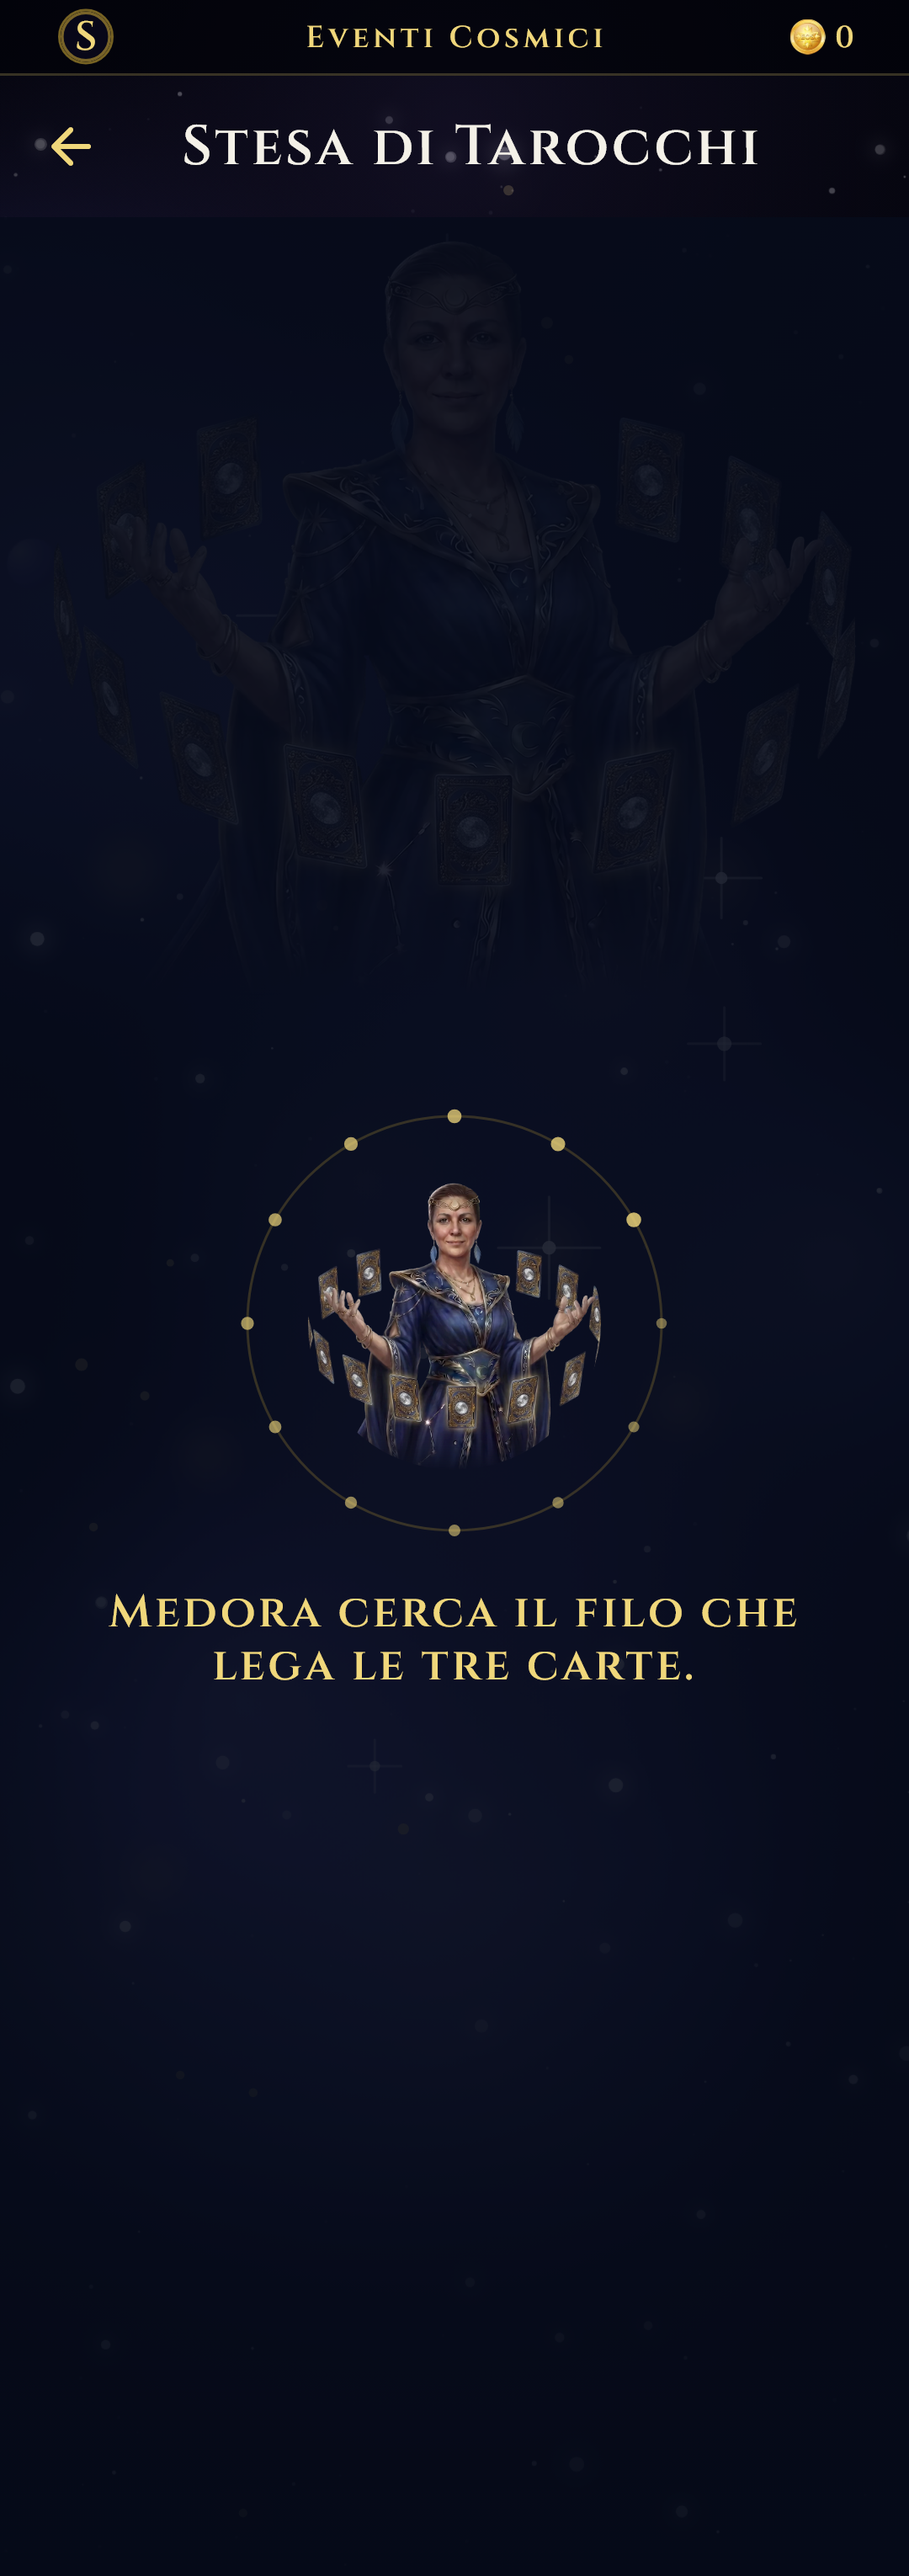
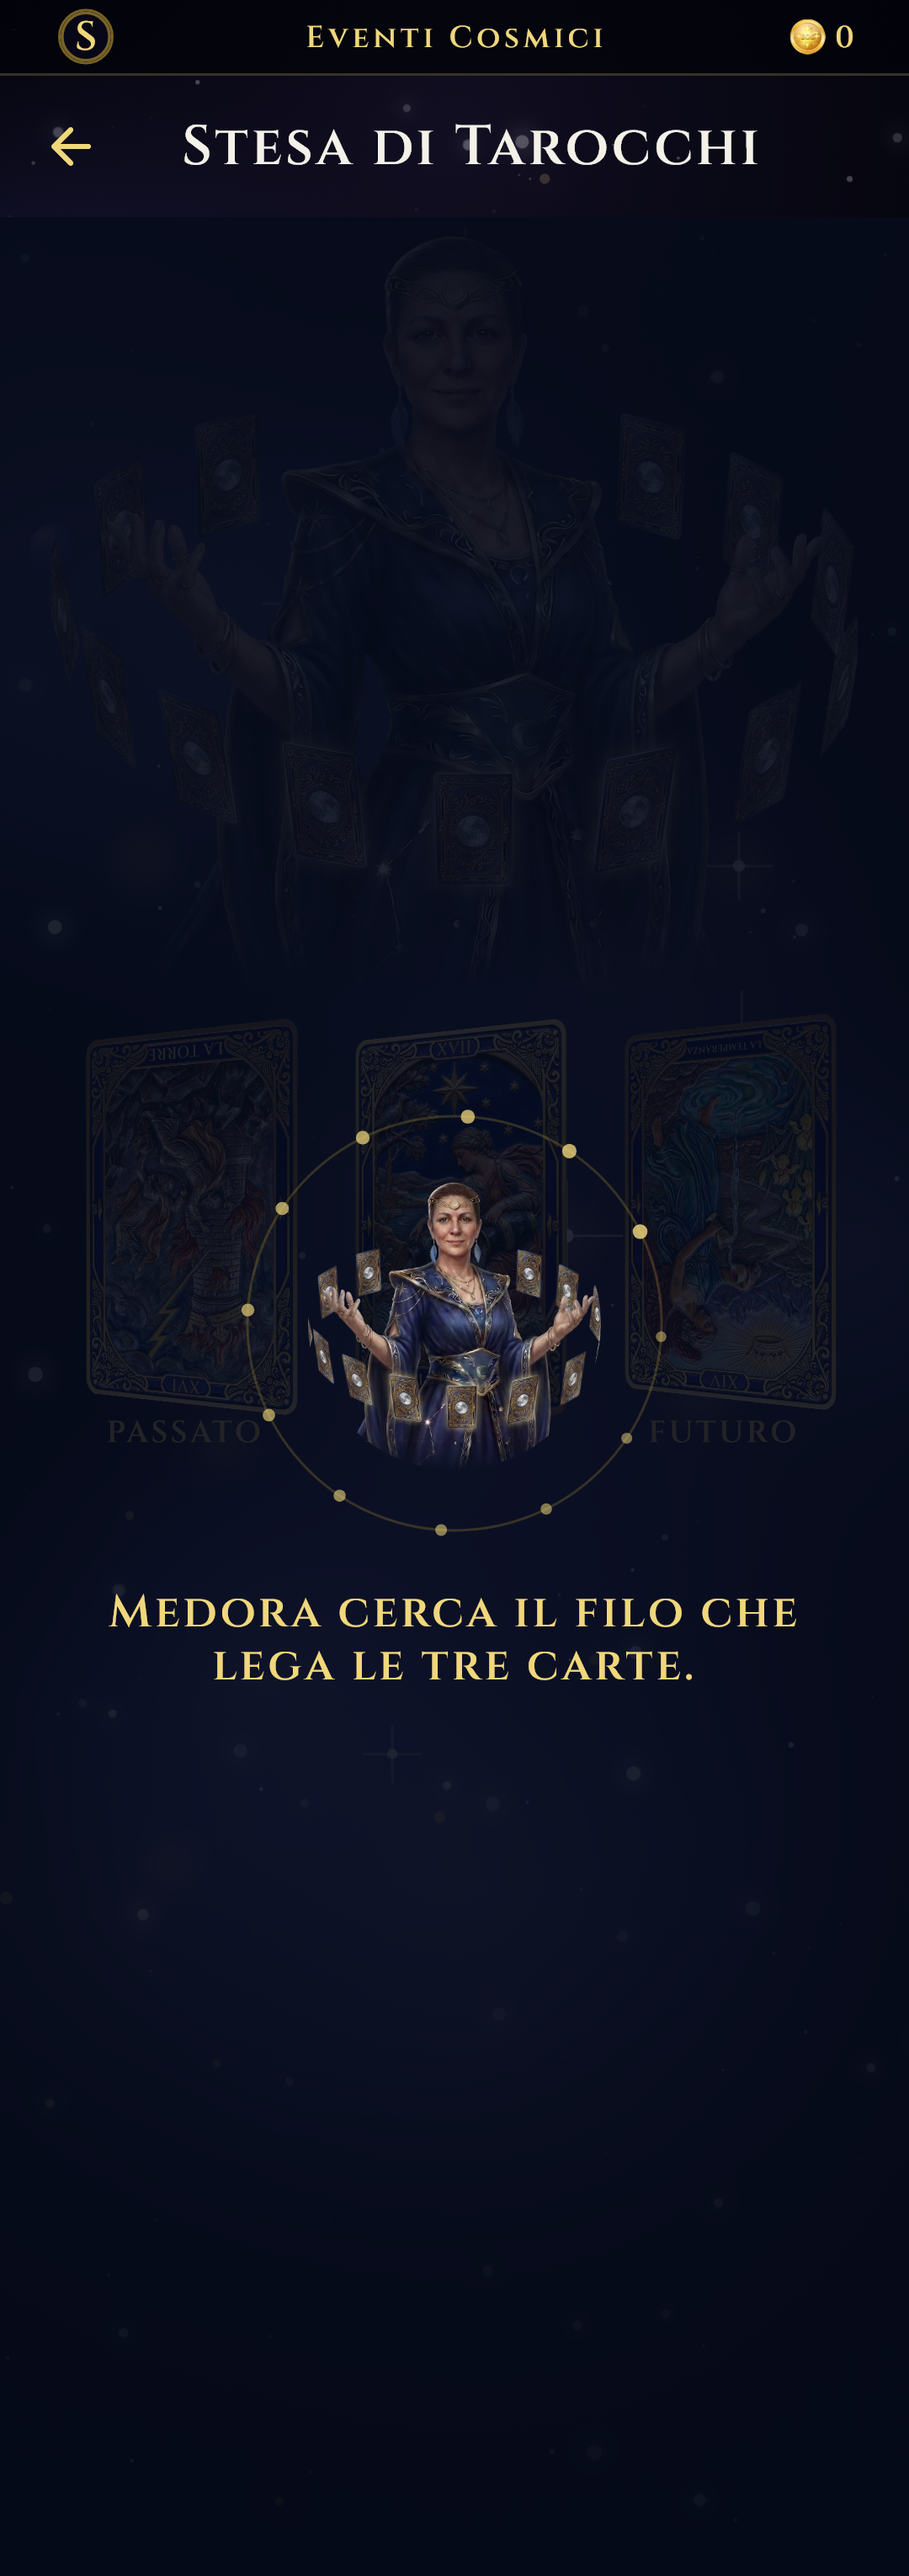
BZ.08: la carta chiave si dice a parole, non con una cornice
Parole del fondatore: "la Carta chiave evidenziata da cornice azzurra
FA ANCORA SCHIFO: va bene la carta ingrandita, ma sopra bisogna
scrivergli 'Carta Chiave' ed e' meglio diminuire la grandezza delle
altre 2 carte".

La cornice azzurra non c'e' piu': era il terzo tentativo di dire con un
colore cio' che adesso dicono due parole. Sopra la carta chiave c'e'
scritto Carta Chiave, e le altre due scendono a 0,86.

Le tre misure, sui pixel dipinti e non sui riquadri di layout:
- la carta chiave e' alta 162,8 punti contro 127,3, cioe' il 27,9 per
  cento in piu' (era il 10,0);
- l'azzurro sopra la chiave 127 pixel, sopra le altre due zero;
- le parole finiscono a 437 e la carta comincia a 442,8, cioe' stanno
  sopra e non addosso. Con venti punti di intestazione la carta le
  copriva di nove.

Le tre carte restano dentro lo schermo anche a 320 di larghezza.

I due rossi: rimesse le vicine a 1,0 lo scarto torna al 10,0 per cento
e la guardia cade; tolte le parole cadono tre guardie, con zero pixel
di azzurro sopra la chiave.

diff --git a/test/la_chiave_e_il_consiglio_si_vedono_test.dart b/test/la_chiave_e_il_consiglio_si_vedono_test.dart
@@ -82,10 +82,12 @@ void main() {
       tester.renderObject(find.byType(MaterialApp).first);
 
   Future<GlobalKey> monta(WidgetTester tester,
-      {int seed = 2, double altezzaFinestra = 4400}) async {
+      {int seed = 2,
+      double altezzaFinestra = 4400,
+      double larghezzaFinestra = 360}) async {
     silenzia();
     await caricaCaratteri();
-    tester.view.physicalSize = Size(360, altezzaFinestra);
+    tester.view.physicalSize = Size(larghezzaFinestra, altezzaFinestra);
     tester.view.devicePixelRatio = 1.0;
     addTearDown(tester.view.resetPhysicalSize);
     addTearDown(tester.view.resetDevicePixelRatio);
@@ -104,15 +106,17 @@ void main() {
     return radice;
   }
 
-  /// Quanto oro c'e' attorno alla carta [posizione], misurato SUI PIXEL.
+  /// Quanto azzurro c'e' SOPRA la carta [posizione], misurato sui pixel.
   ///
-  /// Si guarda una cornice larga sei punti attorno al riquadro della carta,
-  /// perche' e' li' che il segno vive: dentro c'e' la figura, che e' uguale
-  /// per tutte e non direbbe niente.
-  Future<double> azzurroAttorno(
+  /// **Ordine BZ voce 08: e' li' che il segno vive adesso.** Fino alla voce
+  /// BV.04 il segno era una cornice attorno alla carta, e si misurava la
+  /// banda attorno al riquadro; il fondatore l'ha bocciata ("FA ANCORA
+  /// SCHIFO") e al suo posto ci sono le parole "Carta Chiave" in cima alla
+  /// colonna. La grandezza misurata cambia con lui: la striscia guardata e'
+  /// quella fra il bordo alto della carta e i trentadue punti sopra di lei.
+  Future<double> azzurroSopra(
       WidgetTester tester, GlobalKey radice, SpreadPosition posizione) async {
-    final carta = find.byKey(Key('stesa_carta_${posizione.name}'));
-    final r = tester.getRect(carta);
+    final r = tester.getRect(find.byKey(Key('stesa_carta_${posizione.name}')));
     var quanti = 0;
     await tester.runAsync(() async {
       final b =
@@ -121,17 +125,8 @@ void main() {
       final data = await img.toByteData(format: ui.ImageByteFormat.rawRgba);
       final px = data!.buffer.asUint8List();
       final origine = tester.getRect(find.byKey(radice)).topLeft;
-      const bordo = 6.0;
-      for (var y = (r.top - bordo).round(); y < (r.bottom + bordo).round(); y++) {
-        for (var x = (r.left - bordo).round();
-            x < (r.right + bordo).round();
-            x++) {
-          // Solo la cornice: dentro il riquadro non si guarda.
-          final dentro = x > r.left + bordo &&
-              x < r.right - bordo &&
-              y > r.top + bordo &&
-              y < r.bottom - bordo;
-          if (dentro) continue;
+      for (var y = (r.top - 32).round(); y < r.top.round(); y++) {
+        for (var x = r.left.round(); x < r.right.round(); x++) {
           final px0 = (x - origine.dx).round();
           final py0 = (y - origine.dy).round();
           if (px0 < 0 || py0 < 0 || px0 >= img.width || py0 >= img.height) {
@@ -139,11 +134,8 @@ void main() {
           }
           final i = (py0 * img.width + px0) * 4;
           if (i + 2 >= px.length) continue;
-          // **AZZURRO E NON PIU' ORO, ordine BU voce 02**, e il predicato
-          // e' piu' stretto perche' lo sfondo dell'app e' gia' blu scuro: si
-          // cerca un azzurro CHIARO, cioe' un blu che domina il rosso di
-          // sessanta E che sia luminoso. Il fondo (18, 32, 74) passerebbe la
-          // sola dominanza e farebbe contare tutte e tre le carte uguali.
+          // Lo stesso predicato della cornice: un azzurro CHIARO, che il
+          // fondo blu scuro dell'app non passa.
           if (px[i + 2] > 150 && px[i + 2] - px[i] > 60) quanti++;
         }
       }
@@ -165,16 +157,20 @@ void main() {
 
       final misure = <SpreadPosition, double>{};
       for (final p in SpreadPosition.values) {
-        misure[p] = await azzurroAttorno(tester, radice, p);
+        misure[p] = await azzurroSopra(tester, radice, p);
       }
       final altre = [
         for (final p in SpreadPosition.values)
           if (p != chiave) misure[p]!,
       ];
       // ignore: avoid_print
-      print('ORDINE BU VOCE 2 (misura BN.05) seme $seed, chiave ${chiave.name}: '
-          'azzurro attorno alla chiave ${misure[chiave]!.toStringAsFixed(0)}, '
-          'alle altre ${altre.map((v) => v.toStringAsFixed(0)).join(" e ")}');
+      print('ORDINE BZ VOCE 8 (misura BN.05) seme $seed, chiave '
+          '${chiave.name}: azzurro SOPRA la chiave '
+          '${misure[chiave]!.toStringAsFixed(0)}, sopra le altre '
+          '${altre.map((v) => v.toStringAsFixed(0)).join(" e ")}');
+      expect(misure[chiave]!, greaterThan(80),
+          reason: 'seme $seed: sopra la carta chiave non c\'e\' abbastanza '
+              'azzurro perche\' ci sia scritto qualcosa');
       for (final v in altre) {
         expect(misure[chiave]!, greaterThan(v * 1.5),
             reason: 'seme $seed: la carta chiave (${chiave.name}) non si '
@@ -372,31 +368,30 @@ void main() {
         reason: 'il selettore chiede ancora l\'argomento invece della domanda');
   });
 
-  testWidgets('BU.02: sopra la carta chiave non si disegna niente',
+  testWidgets('BZ.08: sopra la carta chiave non si disegna piu\' niente',
       (tester) async {
+    // **LA TERZA STESURA DELLO STESSO SEGNO, e la prima senza colore.**
+    // BN.05 ci aveva messo un alone d'oro, BU.02 la sola linea azzurra, BV.04
+    // la linea piu' spessa con la carta cresciuta. Parole del fondatore
+    // dell'ordine BZ: "la Carta chiave evidenziata da cornice azzurra FA
+    // ANCORA SCHIFO". Adesso sopra la carta non c'e' niente: il segno sono le
+    // parole in cima alla colonna e la misura.
     await monta(tester);
     final lettura = TarotReading.of(
       TarotSpread.dalMazzo(TarotSpread.mazzoMescolato(seed: 2)),
       TarotTopic.bivio,
     );
     final chiave = lettura.chiave.drawn.position;
-    final segno = find.byKey(Key('stesa_chiave_${chiave.name}'));
-    expect(segno, findsOneWidget, reason: 'il segno della chiave non c\'e\'');
-    final d = tester.widget<Container>(segno).decoration as BoxDecoration;
-    // ignore: avoid_print
-    print('ORDINE BU VOCE 2: il segno della chiave ha fondo ${d.color}, '
-        'ombre ${d.boxShadow?.length ?? 0}, bordo '
-        '${(d.border as Border?)?.top.color}');
-    expect(d.color, isNull,
-        reason: 'sopra la carta chiave c\'e\' un fondo: e\' la '
-            'sovrapposizione che il fondatore non vuole');
-    expect(d.boxShadow, anyOf(isNull, isEmpty),
-        reason: 'sopra la carta chiave c\'e\' un alone: e\' la '
-            'sovrapposizione che il fondatore non vuole. Ha chiesto la '
-            'cornice');
-    expect((d.border as Border).top.color, MaestroPalette.medora.glow,
-        reason: 'la cornice della carta chiave non e\' l\'azzurro della '
-            'palette');
+    for (final p in SpreadPosition.values) {
+      expect(find.byKey(Key('stesa_chiave_${p.name}')), findsNothing,
+          reason: 'la cornice azzurra e\' tornata sopra la carta ${p.name}');
+    }
+    // E le parole ci sono, su UNA carta sola.
+    expect(find.byKey(Key('stesa_parole_chiave_${chiave.name}')),
+        findsOneWidget,
+        reason: 'sopra la carta chiave non c\'e\' scritto niente');
+    expect(find.text('Carta Chiave'), findsOneWidget,
+        reason: 'le parole "Carta Chiave" compaiono ${find.text('Carta Chiave').evaluate().length} volte invece di una');
   });
 
   testWidgets('BU.02: la bolla chiave ha lo stesso fondo delle altre',
@@ -523,10 +518,6 @@ void main() {
       TarotTopic.bivio,
     );
     final chiave = lettura.chiave.drawn.position;
-    final riquadri = <SpreadPosition, Rect>{
-      for (final p in SpreadPosition.values)
-        p: tester.getRect(find.byKey(Key('stesa_carta_${p.name}'))),
-    };
     // La misura vera e' quella DIPINTA, non quella del riquadro di layout: la
     // scala e' un Transform, e il riquadro non la vede.
     final dipinta = <SpreadPosition, Rect>{};
@@ -549,24 +540,39 @@ void main() {
         '${altaChiave.toStringAsFixed(1)} punti contro '
         '${altre.map((v) => v.toStringAsFixed(1)).join(" e ")}, cioe\' il '
         '${(scarto * 100).toStringAsFixed(1)} per cento in piu\'');
-    expect(scarto, greaterThanOrEqualTo(0.08),
+    // **LA SOGLIA SALE CON L'ORDINE BZ VOCE 8.** Con la sola chiave cresciuta
+    // lo scarto era il dieci per cento; adesso le vicine scendono a
+    // ottantasei centesimi e lo scarto dipinto passa il venti. Non si abbassa
+    // mai una soglia: questa si ALZA, perche' la grandezza misurata e'
+    // cambiata sotto.
+    expect(scarto, greaterThanOrEqualTo(0.20),
         reason: 'la carta chiave supera le altre di appena il '
             '${(scarto * 100).toStringAsFixed(1)} per cento: a colpo d\'occhio '
             'non si distingue, ed e\' cio\' che il fondatore ha detto della '
             'linea a filo');
 
-    // **LA CORNICE E' LA SECONDA META' DEL SEGNO**, e sta a filo del bordo:
-    // fra una carta e la vicina ci sono otto punti soli, e una cornice
-    // staccata di sei finiva dentro la carta accanto. La linea e' piu' spessa
-    // invece che piu' lontana.
-    final segno = tester.getRect(find.byKey(Key('stesa_chiave_${chiave.name}')));
-    final carta = riquadri[chiave]!;
+    // **LE PAROLE STANNO SOPRA LA CARTA CHIAVE, ordine BZ voce 08**, e sopra
+    // vuol dire piu' in alto del suo bordo: se finissero accanto, o sotto,
+    // sarebbero un'altra etichetta e non il nome di quella carta. Si misura
+    // dipinto, non di layout, perche' la carta e' scalata da un Transform.
+    final paroleRo = tester
+        .element(find.byKey(Key('stesa_parole_chiave_${chiave.name}')))
+        .renderObject! as RenderBox;
+    final parole = MatrixUtils.transformRect(
+        paroleRo.getTransformTo(radiceDipinta(tester)),
+        Offset.zero & paroleRo.size);
     // ignore: avoid_print
-    print('ORDINE BV VOCE 4: la cornice misura '
-        '${segno.width.toStringAsFixed(1)} punti contro i '
-        '${carta.width.toStringAsFixed(1)} della carta');
-    expect(segno.width, closeTo(carta.width, 0.5),
-        reason: 'la cornice non segue piu\' il riquadro della carta');
+    print('ORDINE BZ VOCE 8: le parole stanno da '
+        '${parole.top.toStringAsFixed(1)} a '
+        '${parole.bottom.toStringAsFixed(1)}, la carta chiave comincia a '
+        '${dipinta[chiave]!.top.toStringAsFixed(1)}');
+    expect(parole.bottom, lessThanOrEqualTo(dipinta[chiave]!.top + 1),
+        reason: 'le parole "Carta Chiave" non stanno sopra la carta: '
+            'finiscono a ${parole.bottom.toStringAsFixed(1)} mentre la carta '
+            'comincia a ${dipinta[chiave]!.top.toStringAsFixed(1)}');
+    expect(parole.center.dx,
+        closeTo(dipinta[chiave]!.center.dx, dipinta[chiave]!.width / 2),
+        reason: 'le parole non stanno sopra la colonna della carta chiave');
 
     // **E LA CARTA CRESCIUTA NON DEVE TOCCARE LE VICINE.** Un difetto nuovo
     // al posto di quello vecchio non sarebbe una cura.
@@ -590,8 +596,19 @@ void main() {
       (tester) async {
     // **LA LEZIONE DEL VENTAGLIO, ordine BU**: cio' che cresce puo' uscire di
     // scena, e lo si scopre solo misurandolo su uno schermo vero.
-    for (final altezza in const [797.0, 640.0]) {
-      await monta(tester, altezzaFinestra: altezza);
+    // **E ANCHE STRETTO, ordine BZ voce 08**: la chiave cresce del dieci per
+    // cento e le vicine calano, quindi la fila cambia forma, e il fondatore ha
+    // chiesto di controllare che le tre carte ci stiano ancora. Trecentoventi
+    // e' il piu' stretto degli schermi in commercio.
+    for (final misura in const [
+      [360.0, 797.0],
+      [360.0, 640.0],
+      [320.0, 640.0],
+    ]) {
+      final larghezza = misura[0];
+      final altezza = misura[1];
+      await monta(tester,
+          altezzaFinestra: altezza, larghezzaFinestra: larghezza);
       final fuori = <String>[];
       for (final p in SpreadPosition.values) {
         final ro = tester
@@ -600,17 +617,18 @@ void main() {
         final m = ro.getTransformTo(radiceDipinta(tester));
         final r = MatrixUtils.transformRect(m, Offset.zero & ro.size);
         // La cornice sta sei punti piu' in la', e conta anche lei.
-        if (r.left - 7 < 0 || r.right + 7 > 360) {
+        if (r.left - 7 < 0 || r.right + 7 > larghezza) {
           fuori.add('${p.name} da ${r.left.toStringAsFixed(1)} a '
               '${r.right.toStringAsFixed(1)}');
         }
       }
       // ignore: avoid_print
-      print('ORDINE BV VOCE 4: su 360 per ${altezza.toStringAsFixed(0)}, '
-          'carte fuori dai bordi: ${fuori.isEmpty ? "nessuna" : fuori}');
+      print('ORDINE BV VOCE 4: su ${larghezza.toStringAsFixed(0)} per '
+          '${altezza.toStringAsFixed(0)}, carte fuori dai bordi: '
+          '${fuori.isEmpty ? "nessuna" : fuori}');
       expect(fuori, isEmpty,
-          reason: 'su uno schermo 360x$altezza queste carte escono dai bordi: '
-              '$fuori');
+          reason: 'su uno schermo ${larghezza}x$altezza queste carte escono '
+              'dai bordi: $fuori');
     }
   });
 }

diff --git a/lib/features/tarot/stesa_tre_carte_screen.dart b/lib/features/tarot/stesa_tre_carte_screen.dart
@@ -1484,6 +1484,36 @@ class _Slot extends StatelessWidget {
     return Column(
       crossAxisAlignment: CrossAxisAlignment.stretch,
       children: [
+        // **LE PAROLE SOPRA LA CARTA CHIAVE, ordine BZ voce 08.**
+        //
+        // Parole del fondatore: "la Carta chiave evidenziata da cornice
+        // azzurra FA ANCORA SCHIFO: va bene la carta ingrandita, ma sopra
+        // bisogna scrivergli "Carta Chiave" ed e' meglio diminuire la
+        // grandezza delle altre 2 carte". La cornice non c'e' piu': al suo
+        // posto ci sono le parole, che dicono cosa sia invece di lasciarlo
+        // indovinare a una linea di colore.
+        //
+        // **L'ALTEZZA E' RISERVATA A TUTTE E TRE**, anche a chi non scrive
+        // niente: cosi' le tre carte restano allineate in cima e la chiave non
+        // scende rispetto alle vicine. Trentadue punti per quindici di
+        // scritta: l'aria che avanza non e' spreco, e' lo spazio in cui la
+        // carta chiave CRESCE. Misurato: con venti punti la carta, scalata a
+        // 1,10, saliva fino a 430,8 mentre le parole finivano a 440, cioe' le
+        // copriva di nove punti.
+        SizedBox(
+          height: 32,
+          child: eLaChiave
+              ? Align(
+                  alignment: Alignment.topCenter,
+                  child: Text('Carta Chiave',
+                      key: Key('stesa_parole_chiave_${position.name}'),
+                      textAlign: TextAlign.center,
+                      maxLines: 1,
+                      style: TypographyTokens.etichetta().copyWith(
+                          color: palette.glow, letterSpacing: 1.1)),
+                )
+              : null,
+        ),
         // La carta posata fluttua piano e si inclina col giroscopio, come
         // sospesa davanti a chi guarda. E' un effetto di superficie: non tocca
         // il testo sotto ne' il pescaggio.
@@ -1504,7 +1534,13 @@ class _Slot extends StatelessWidget {
             // Dieci per cento: abbastanza da leggersi a colpo d'occhio,
             // abbastanza poco da non toccare le vicine.
             child: Transform.scale(
-              scale: eLaChiave ? 1.10 : 1.0,
+              // **LA CHIAVE RESTA GRANDE E LE ALTRE DUE SCENDONO, ordine BZ
+              // voce 08.** Prima lo scarto era il solo dieci per cento della
+              // chiave; adesso le vicine scendono a ottantasei centesimi e lo
+              // scarto dipinto arriva a un quarto abbondante, che e' cio' che
+              // il fondatore ha chiesto quando ha detto di diminuire la
+              // grandezza delle altre due.
+              scale: eLaChiave ? 1.10 : 0.86,
               child: Stack(
               alignment: Alignment.center,
               // L'aura deve poter uscire dal bordo della carta: e' attorno a
@@ -1548,36 +1584,16 @@ class _Slot extends StatelessWidget {
                           ),
                         ),
                 ),
-                // IL SEGNO DELLA CHIAVE, ordine BN voce 05 e **ordine BU voce
-                // 02**: una CORNICE e niente altro. Parole del fondatore sulla
-                // 2208: "perche' la carta chiave ha ancora una sovrapposizione
-                // di Giallo? non voglio nessuna sovrapposizione che peggiora la
-                // visualizzazione della carta, ho chiesto la cornice". La
-                // sovrapposizione era l'alone: un `boxShadow` oro con diciotto
-                // di sfocatura, che intorbidava il bordo della figura. Adesso
-                // resta la sola linea, e passa dall'oro all'AZZURRO della
-                // palette, che e' il colore del Maestro e non un colore nuovo.
-                if (eLaChiave)
-                  // **LA CORNICE RESTA A FILO, E LA CARTA CRESCE, ordine BV
-                  // voce 04**: staccarla di sei punti si poteva, ma fra una
-                  // carta e la vicina ci sono OTTO punti soli, e una cornice
-                  // staccata entrava dentro la carta accanto. Fra le due
-                  // strade la piu' forte e' la scala, che si legge da un metro;
-                  // alla linea basta essere piu' spessa per non confondersi
-                  // col profilo dorato della carta.
-                  Positioned.fill(
-                    child: IgnorePointer(
-                      child: Container(
-                        key: Key('stesa_chiave_${position.name}'),
-                        decoration: BoxDecoration(
-                          borderRadius:
-                              BorderRadius.circular(SpacingTokens.radiusMd),
-                          border: Border.all(
-                              color: palette.glow, width: 3),
-                        ),
-                      ),
-                    ),
-                  ),
+                // **LA CORNICE AZZURRA NON C'E' PIU', ordine BZ voce 08.**
+                //
+                // Parole del fondatore: "la Carta chiave evidenziata da
+                // cornice azzurra FA ANCORA SCHIFO". Era il terzo tentativo
+                // sulla stessa cosa: alone d'oro (BN.05), poi la sola linea
+                // azzurra (BU.02), poi la linea piu' spessa con la carta
+                // cresciuta (BV.04). Il segno adesso non si disegna piu' sopra
+                // la carta: sono le PAROLE sopra di lei, in cima a questa
+                // colonna, piu' lo scarto di misura con le vicine. Chi legge
+                // non deve piu' interpretare un colore.
                 // L'aura elementale, mentre la carta si scopre.
                 if (revealSpec != null && revealProgress > 0)
                   Positioned.fill(
